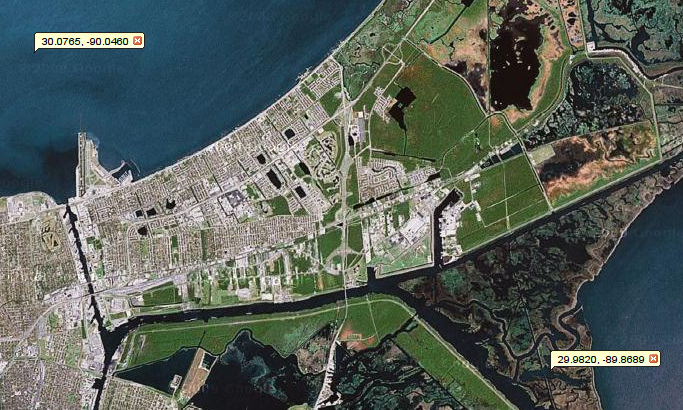
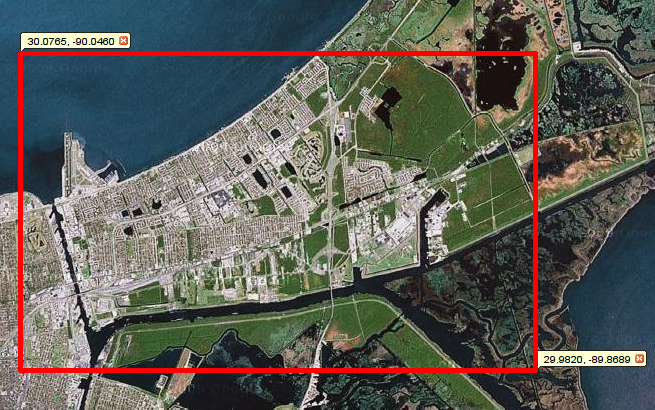
Corrección de las áreas de simulación

diff --git a/capitulo6/cap6.tex b/capitulo6/cap6.tex
@@ -12,28 +12,35 @@
 
 \vspace*{5mm}
 
-\section*{Preparando el escenario}
+\section*{Preparando el Escenario}
 
-Todo buen simulador tiene que demostrar que lo simulado tiene una relación
-directa con lo que realmente pasó.
+Para poder validar el trabajo realizado, hemos de simular lo ocurrido en el
+caso guía y comparar los resultados con lo que realmente pasó. Para ello hemos
+recopilado información de la inundación provocada por el paso del huracán
+Katrina por Nueva Orleans en el año 2005.
 
-Para ello hemos recopilado la información de la inundación provocada por el
-Katrina en Nueva Orleans y para poder simular la catástrofe con los parámetros
-reales.
+Utilizando la información obtenida, creamos un escenario de simulación que
+recrea la catástrofe que asoló la ciudad de Nueva Orleans. Como datos de
+entrada utilizamos las roturas de los diques que contenían al río Mississippi
+-nuestras Entradas de Agua-, la distribución de la población -los agentes
+Peatón-, el terreno real y las calles reales de la ciudad.
 
 \subsection*{Área de simulación}
 
 El huracán Katrina afectó a una parte considerable del estado de Luisiana, pero
-nosotros nos centraremos en la zona mas afectada en Nueva Orlenas
+nosotros nos centraremos en la ciudad de Nueva Orleans. En concreto el área que
+se inundó de la ciudad viene resaltada en la siguiente imagen.
 
 \begin{figure}[H]
  \centering
- \includegraphics[height=130mm,angle=90]{figuras/cap6/NOarea1.png}
+ \includegraphics[height=120mm,angle=90]{figuras/cap6/NOarea1.png}
  \caption{Área de Simulación}
 \end{figure}
 
-Como se puede ver en la figura, las zonas mas afectadas por la inundación se
-podrían dividir por el lecho del río.
+Al producirse la inundación por el desbordamiento del río, entre el mismo río y
+los canales que atraviesan la ciudad dividieron la inundación en tres grandes
+zonas casi independientes. En la siguiente imagen se puede apreciar la división
+de la inundación en las tres zonas afectadas.
 
 \begin{figure}[H]
  \centering
@@ -41,7 +48,10 @@ podrían dividir por el lecho del río.
  \caption{División en zonas del área afectada}
 \end{figure}
 
-Aquí podemos apreciarlas mas en detalle.
+Al ser el mismo río el que separa las diferentes zonas, éstas pueden simularse
+por separado. Para ahorrar recursos y reducir la carga computacional nos
+planteamos la creación de tres escenarios de simulación separados. Las
+siguientes imágenes muestran las áreas de cada uno de dichos escenarios.
 
 \begin{figure}[H]
  \centering
@@ -51,7 +61,7 @@ Aquí podemos apreciarlas mas en detalle.
 
 \begin{figure}[H]
  \centering
- \includegraphics[height=130mm,angle=90]{figuras/cap6/NOarea3.png}
+ \includegraphics[width=135mm]{figuras/cap6/NOarea3.png}
  \caption{Zona 2 de simulación}
 \end{figure}
 
